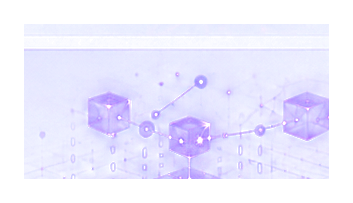
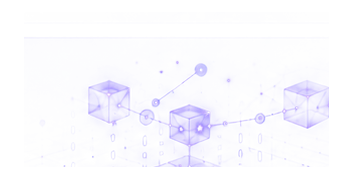
展区总览三张卡片配图与卡片融为一体：对图像做alpha-gamma使暗部辉光背景溶入卡片、消除贴图矩形边；引领区裁掉顶部亮线，柔化径向遮罩
Claude-Session: https://claude.ai/code/session_014MF8uwhe3aYTdRogR6bgSH

diff --git a/src/styles/global.css b/src/styles/global.css
@@ -1048,16 +1048,10 @@ input:focus-visible {
   height: 100%;
   pointer-events: none;
   object-fit: cover;
-  object-position: right center;
-  filter: drop-shadow(0 0 0.7cqw rgba(119, 78, 230, 0.22));
-  -webkit-mask-image:
-    linear-gradient(to right, transparent 0, #000 24%),
-    linear-gradient(to bottom, transparent 0, #000 20%, #000 82%, transparent 100%);
-  -webkit-mask-composite: source-in;
-  mask-image:
-    linear-gradient(to right, transparent 0, #000 24%),
-    linear-gradient(to bottom, transparent 0, #000 20%, #000 82%, transparent 100%);
-  mask-composite: intersect;
+  object-position: center;
+  filter: drop-shadow(0 0 0.7cqw rgba(119, 78, 230, 0.18));
+  -webkit-mask-image: radial-gradient(135% 155% at 57% 50%, #000 60%, transparent 98%);
+  mask-image: radial-gradient(135% 155% at 57% 50%, #000 60%, transparent 98%);
 }
 
 .zone-visual__energy {